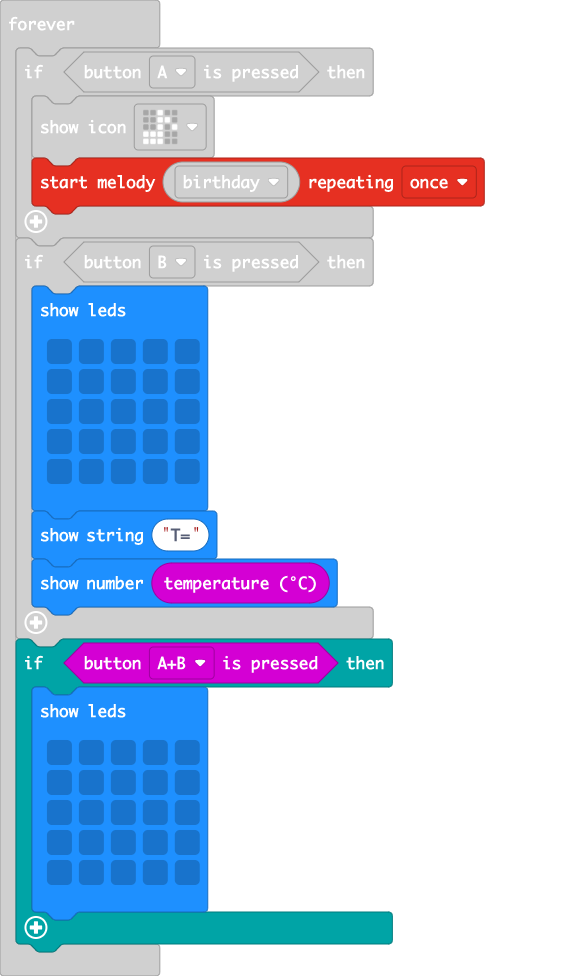
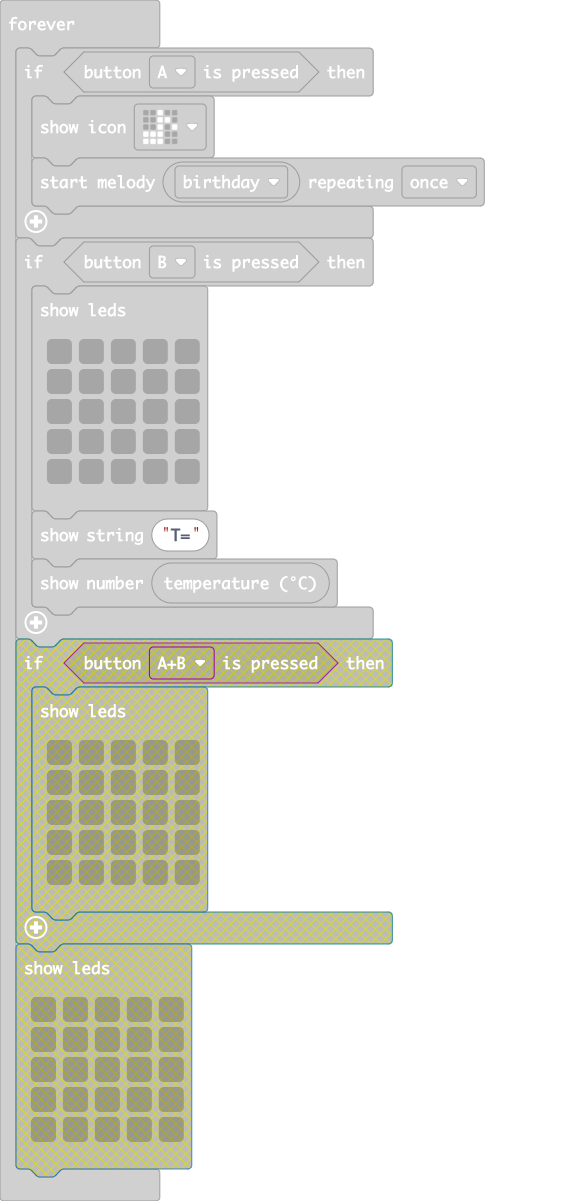
Update main.blocks, main.ts

diff --git a/main.ts b/main.ts
@@ -14,13 +14,4 @@ basic.forever(function () {
         basic.showString("T=")
         basic.showNumber(input.temperature())
     }
-    if (input.buttonIsPressed(Button.AB)) {
-        basic.showLeds(`
-            . . . . .
-            . . . . .
-            . . . . .
-            . . . . .
-            . . . . .
-            `)
-    }
 })
